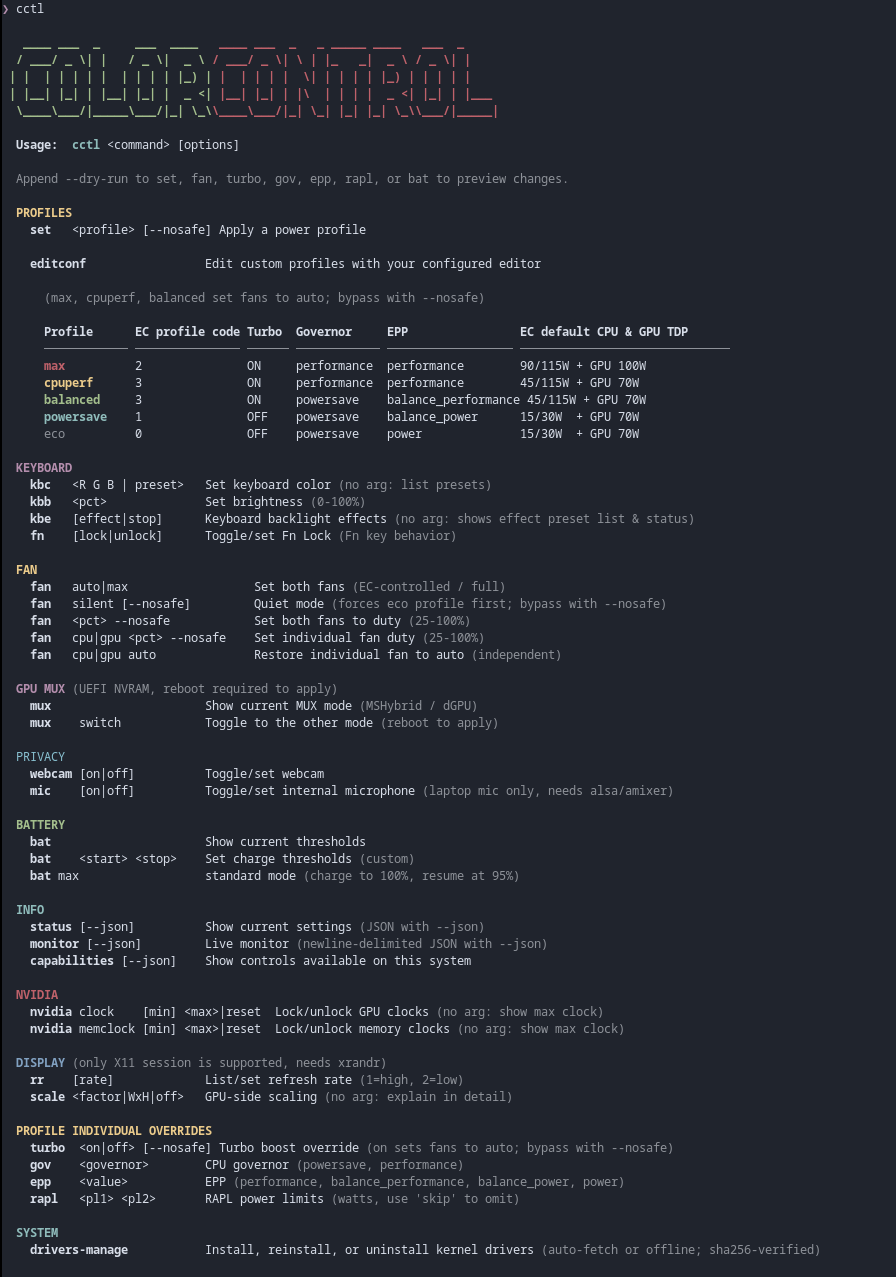
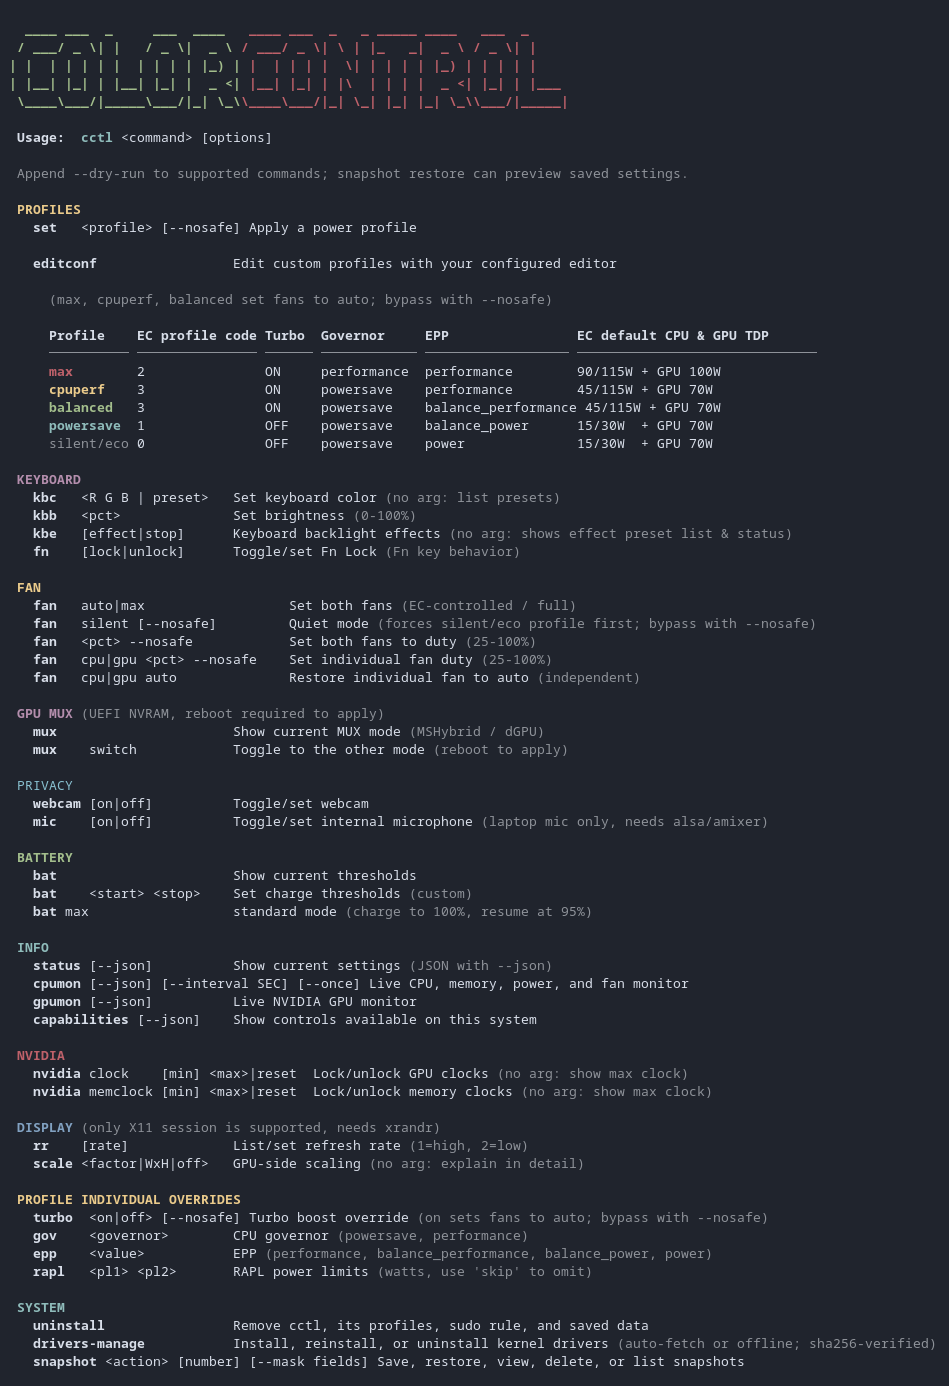
feat: bind fan safety to active EC code

diff --git a/cctl.c b/cctl.c
@@ -37,14 +37,14 @@
 #include <sys/file.h>
 #include <stdarg.h>
 
-#define CCTL_VERSION      "4.6.2"
+#define CCTL_VERSION      "4.6.3"
 /* NOTE FOR DEVELOPERS / AI AGENTS:
  * Always increment CCTL_MICROVERSION (a 6-digit integer) whenever making code
  * changes and committing. 'cctl install' checks this hidden value to determine
  * if a local binary is newer than /usr/local/bin/cctl. Do NOT document this in
  * README or help menus. */
 #ifndef CCTL_MICROVERSION
-#define CCTL_MICROVERSION 100070
+#define CCTL_MICROVERSION 100072
 #endif
 
 

diff --git a/README.md b/README.md
@@ -91,27 +91,21 @@ silent/eco  0               OFF    powersave    power              15/30W  + GPU
 ```
 
 > [!CAUTION]
-> High-power profiles (`max`, `cpuperf`, `balanced`) and `turbo on` set fans
-> to **AUTO** by default because silent fans may not cool the system under
-> load. `--nosafe` bypasses this protection and keeps the current fan setting;
-> manual fan duty also requires it. Use `--nosafe` only for deliberate testing:
-> fixed or suppressed fan speeds can cause overheating.
+> Silent mode and manual fan duty may keep fans quiet or fixed regardless of
+> CPU temperature, even under heavy load. To protect the hardware, applying EC
+> profile code `2` or `3`, or enabling Turbo while EC code `2` or `3` is
+> active, sets fans to **AUTO** by default.
+> `--nosafe` skips that automatic change and keeps the current fan setting.
+> Use manual fan duty only for experimental purposes.
 
 ### EC Profiles and Governor/EPP Load Test Results
 
 These full-load measurements on the author's 10-core, 16-thread CPU compare
-the performance, power, and temperature tradeoffs. Results vary with cooling,
-firmware, and workload.
+the performance, power, and temperature tradeoffs. Results vary with cooling
+and workload.
 
 The `performance` EPP results were the same with either governor, so they are
-combined below. `balance_power` and `power` also behaved similarly across EC
-codes and are listed once; codes `0` and `1` sustain lower clocks on
-`balance_power` after reaching their 15W PL1 limit.
-
-| Governor / EPP | Turbo | P / E frequency | Power and behavior across EC codes |
-|---|---:|---:|---|
-| powersave / balance_power | On or off | P: 2200; E: 1600 | About 22W. Codes `2` and `3` sustain this; codes `0` and `1` drop to 15W after TAU and settle around P 1500–1600, E 1200. |
-| powersave / power | On or off | P: 1100; E: 1100 | About 12W, peak and sustained across all codes. |
+combined below.
 
 For the highest measured performance, code `2` with Turbo on and EPP
 `performance` reached 85–87W, then sustained 75–76W near 98°C. Code `2` with
@@ -123,24 +117,24 @@ offers a lower-power standard mode; codes `0` and `1` have 15W PL1 defaults.
 Defaults during this test: TAU 28 seconds, PL1 45W, PL2 115W, TCC offset 13°C
 (87°C PROCHOT).
 
-| Governor / EPP | Turbo | Peak P / E frequency | Power and behavior |
+| Governor / EPP | Turbo | Peak and sustained frequency and power |
 |---|---:|---:|---|
-| performance or powersave / performance | On | P: 4300, 4100, 3900; E: 3285, 3100 | 67–70W; reaches 87°C PROCHOT. After the 28-second TAU, settles at PL1 45W, P 3300, E 2600. |
-| performance or powersave / performance | Off | P: 2400; E: 1800 | About 24W; frequency-limited. |
-| powersave / balance_performance | On | P: 3800; E: 2800 | Peaks at 63W and 87°C PROCHOT. After TAU, settles at PL1 45W, P 3300, E 2600. |
-| powersave / balance_performance | Off | P: 2400; E: 1800 | About 24W; frequency-limited. |
+| performance or powersave / performance | On | Peak: P 4100 ± 200 MHz; E 3100–3285 MHz; 67–70W; reaches 87°C PROCHOT.<br>────────────<br>Sustained: P 3300 MHz; E 2600 MHz; 45W after the 28-second TAU. |
+| performance or powersave / performance | Off | Peak & sustained: P 2400 MHz; E 1800 MHz; about 24W (frequency-limited). |
+| powersave / balance_performance | On | Peak: P 3800 MHz; E 2800 MHz; 63W; reaches 87°C PROCHOT.<br>────────────<br>Sustained: P 3300 MHz; E 2600 MHz; 45W after TAU. |
+| powersave / balance_performance | Off | Peak & sustained: P 2400 MHz; E 1800 MHz; about 24W (frequency-limited). |
 
 #### EC code 2 — High performance
 
 Defaults during this test: TAU 80 seconds, PL1 90W, PL2 115W, TCC offset 2°C
 (98°C PROCHOT).
 
-| Governor / EPP | Turbo | Peak P / E frequency | Power and behavior |
+| Governor / EPP | Turbo | Peak and sustained frequency and power |
 |---|---:|---:|---|
-| performance or powersave / performance | On | P: 4300 or 4100; E: 3300 or 3200 | Peaks at 85–87W and reaches 98–99°C PROCHOT. Later sustains 75–76W at 98°C, around P 3800–3900 and E 3000–3100. |
-| performance or powersave / performance | Off | P: 2400; E: 1800 | Peaks around 25W and sustains there. |
-| powersave / balance_performance | On | P: 3800; E: 2800 | 63–64W peak and sustained, around 91°C. |
-| powersave / balance_performance | Off | P: 2400; E: 1800 | 25W peak and sustained. |
+| performance or powersave / performance | On | Peak: P 4100–4300 MHz; E 3200–3300 MHz; 85–87W at 98–99°C PROCHOT.<br>────────────<br>Sustained: P 3800–3900 MHz; E 3000–3100 MHz; 75–76W at 98°C. |
+| performance or powersave / performance | Off | Peak & sustained: P 2400 MHz; E 1800 MHz; about 25W. |
+| powersave / balance_performance | On | Peak & sustained: P 3800 MHz; E 2800 MHz; 63–64W at about 91°C. |
+| powersave / balance_performance | Off | Peak & sustained: P 2400 MHz; E 1800 MHz; about 25W. |
 
 #### EC code 1 — Powersave, and EC code 0 — Silent
 
@@ -148,12 +142,21 @@ These two codes behaved the same in the test. Defaults: TAU 8 seconds, PL1
 15W, PL2 30W. TCC offset is 15°C for code 1 (85°C PROCHOT) and 10°C for code
 0 (90°C PROCHOT). No PROCHOT event was observed in these test cases.
 
-| Governor / EPP | Turbo | Peak P / E frequency | Power and behavior |
+| Governor / EPP | Turbo | Peak and sustained frequency and power |
 |---|---:|---:|---|
-| performance or powersave / performance | On | P: 2700; E: 2100 | Peaks at 30W. After the 8-second TAU, reaches PL1 15W and settles around P 1500–1600, E 1200. |
-| performance or powersave / performance | Off | P: 2400; E: 1800 | Peaks at 25W. After TAU, reaches PL1 15W and settles around P 1500–1600, E 1200. |
-| powersave / balance_performance | On | P: 2700 or 2600; E: 2100 | Peaks at 30W. After TAU, reaches PL1 15W and settles around P 1500–1600, E 1200. |
-| powersave / balance_performance | Off | P: 2400; E: 1800 | Peaks at 25W. After TAU, reaches PL1 15W and settles around P 1500–1600, E 1200. |
+| performance or powersave / performance | On | Peak: P 2700 MHz; E 2100 MHz; 30W.<br>────────────<br>Sustained: P 1500–1600 MHz; E 1200 MHz; 15W after the 8-second TAU. |
+| performance or powersave / performance | Off | Peak: P 2400 MHz; E 1800 MHz; 25W.<br>────────────<br>Sustained: P 1500–1600 MHz; E 1200 MHz; 15W after TAU. |
+| powersave / balance_performance | On | Peak: P 2600–2700 MHz; E 2100 MHz; 30W.<br>────────────<br>Sustained: P 1500–1600 MHz; E 1200 MHz; 15W after TAU. |
+| powersave / balance_performance | Off | Peak: P 2400 MHz; E 1800 MHz; 25W.<br>────────────<br>Sustained: P 1500–1600 MHz; E 1200 MHz; 15W after TAU. |
+
+`balance_power` and `power` behaved similarly across EC codes and are listed
+once here. Codes `0` and `1` sustain lower clocks on `balance_power` after
+reaching their 15W PL1 limit.
+
+| Governor / EPP | Turbo | Peak and sustained frequency and power across EC codes |
+|---|---:|---:|---|
+| powersave / balance_power | On or off | Peak: P 2200 MHz; E 1600 MHz; about 22W.<br>────────────<br>Sustained: Codes `2` and `3` remain around P 2200 MHz, E 1600 MHz, 22W; codes `0` and `1` reach 15W after TAU and settle around P 1500–1600 MHz, E 1200 MHz. |
+| powersave / power | On or off | Peak & sustained: P 1100 MHz; E 1100 MHz; about 12W across all codes. |
 
 
 ### Custom Profiles
@@ -205,9 +208,11 @@ Use EC code `3`, `2`, `1`, or `0`; Turbo `1` (on) or `0` (off); governor
 > **Caution:** If a profile line contains a typo or unsupported value, cctl
 > skips it, so the profile will not appear in `cctl set` or `cctl --help`.
 
-Custom profiles use the normal fan-safety behavior. Skipped or unset values
-show as `--` in the help table; custom PL1/PL2 values appear in the EC TDP
-column, for example `PL1 90W / PL2 115W (custom)`.
+Custom profiles trigger automatic fan control when they apply EC code `2` or
+`3`, or enable Turbo while the resulting EC code is `2` or `3`; `--nosafe`
+bypasses it. Skipped or unset values show as `--` in the help table; custom
+PL1/PL2 values appear in the EC TDP column, for example
+`PL1 90W / PL2 115W (custom)`.
 
 Append `--dry-run` to preview changes without applying them. Dry-run is
 available for `set`, `fan`, `turbo`, `gov`, `epp`, `rapl`, and `bat`.
@@ -289,10 +294,14 @@ cctl snapshot delete <number>  # Delete a saved snapshot
 Use `--mask` to omit fields while saving or skip them while restoring. Separate
 field names with commas. For example: `cctl snapshot save 2 --mask epp,pl1,turbo`.
 Add `--dry-run` to `snapshot restore` to preview the settings and skipped
-fields without applying changes.
+fields without applying changes. Restoring EC code `2`/`3` sets fans to AUTO;
+restoring Turbo ON does so only when the active EC code is `2`/`3`. Add
+`nosafe` to the restore mask to bypass the automatic fan change (for example,
+`cctl snapshot restore 2 --mask nosafe`).
 Available names are `nvidia_clock`, `nvidia_memclock`,
 `ec_code`, `turbo`, `gov`, `epp`, `pl1`, `pl2`, `kbe`, `kbc`, `kbb`,
-`fn_lock`, `webcam`, `mic`, `bat`, `rr`, and `scale`. `kbc` masks keyboard
+`fn_lock`, `webcam`, `mic`, `bat`, `rr`, and `scale`; `nosafe` is restore-only.
+`kbc` masks keyboard
 color, `kbb` brightness, `kbe` effect, and `bat` both battery thresholds.
 
 Snapshots save system settings, CPU power settings, keyboard settings, Fn Lock,
@@ -325,7 +334,7 @@ cctl scale <factor|WxH|off>    # X11 display scaling (0.75, 1920x1080, or off to
 
 ### Profile Individual Overrides
 ```bash
-cctl turbo on|off [--nosafe]    # Toggle Intel turbo boost (on sets fans to auto; bypass with --nosafe)
+cctl turbo on|off [--nosafe]    # Turbo ON sets fans to auto only in EC code 2/3
 cctl gov powersave|performance  # CPU scaling governor
 cctl epp <preference>           # performance, balance_performance, balance_power, power
 cctl rapl <pl1> <pl2>           # Set PL1/PL2 in watts (use 'skip' to omit one)
